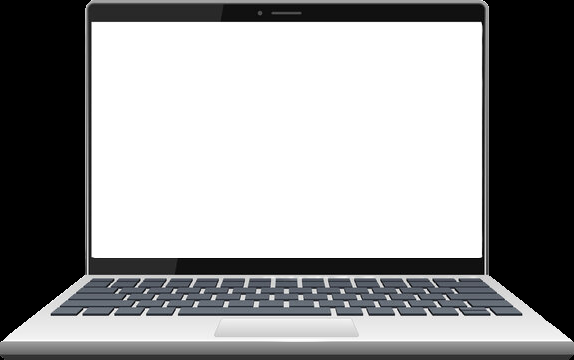
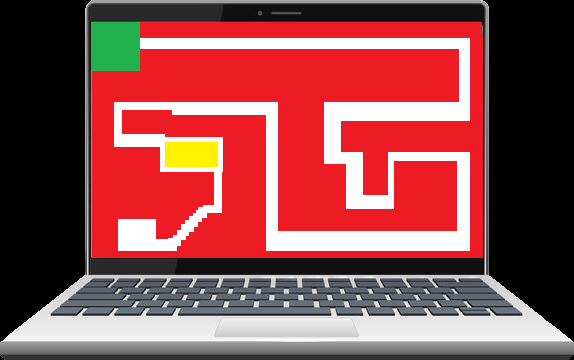
Added another html page for the maze, added arrow img and laptop img updated

diff --git a/Laptop.html b/Laptop.html
@@ -3,15 +3,16 @@
     <style>
         *{background-color: black;}
         h1{color:white; text-align: center;}
-        .laptop{ display: block; margin-left: auto; margin-right: auto; width: auto;}
+        .laptop{ display: block; width: 100%; height: 100%;}
+        .arrow{display: block; width: 10%; height:10%; margin-right:10px; margin-left: auto;}
     </style>
     <head>
-        <h1>Present</h1>
+        
         
     </head>
 
     <body>
-        <br>
         <img class="laptop" src="images/Laptop.png"  alt="Laptop Png" >
+        <img class= "arrow" src="images/arrow.png">
     </body>
 </html> 
